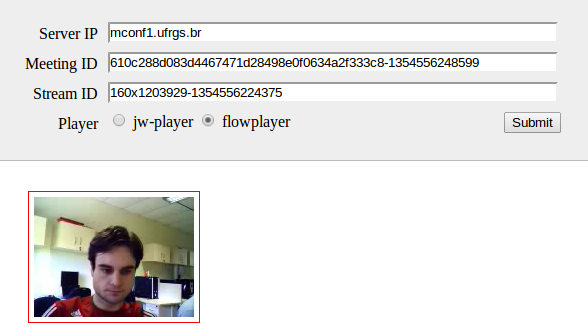
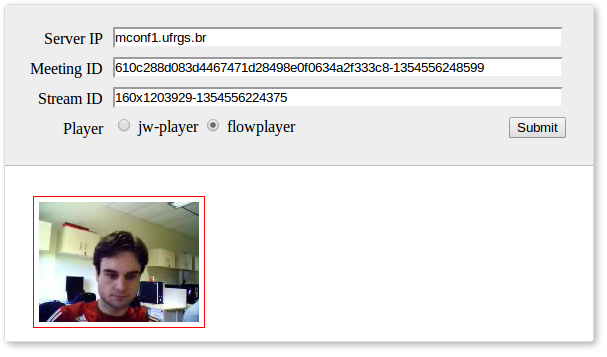
Update the screenshot and its url in README

diff --git a/README.md b/README.md
@@ -4,7 +4,7 @@ Some attempts to show a BigBlueButton video stream in an html with a standalone 
 
 Just open `index.html` and try it!
 
-![Screenshot](https://raw.github.com/daronco/bbb-video-stream-html-client/screenshot.png)
+![Screenshot](https://raw.github.com/daronco/bbb-video-stream-html-client/master/screenshot.png)
 
 ## How to
 
